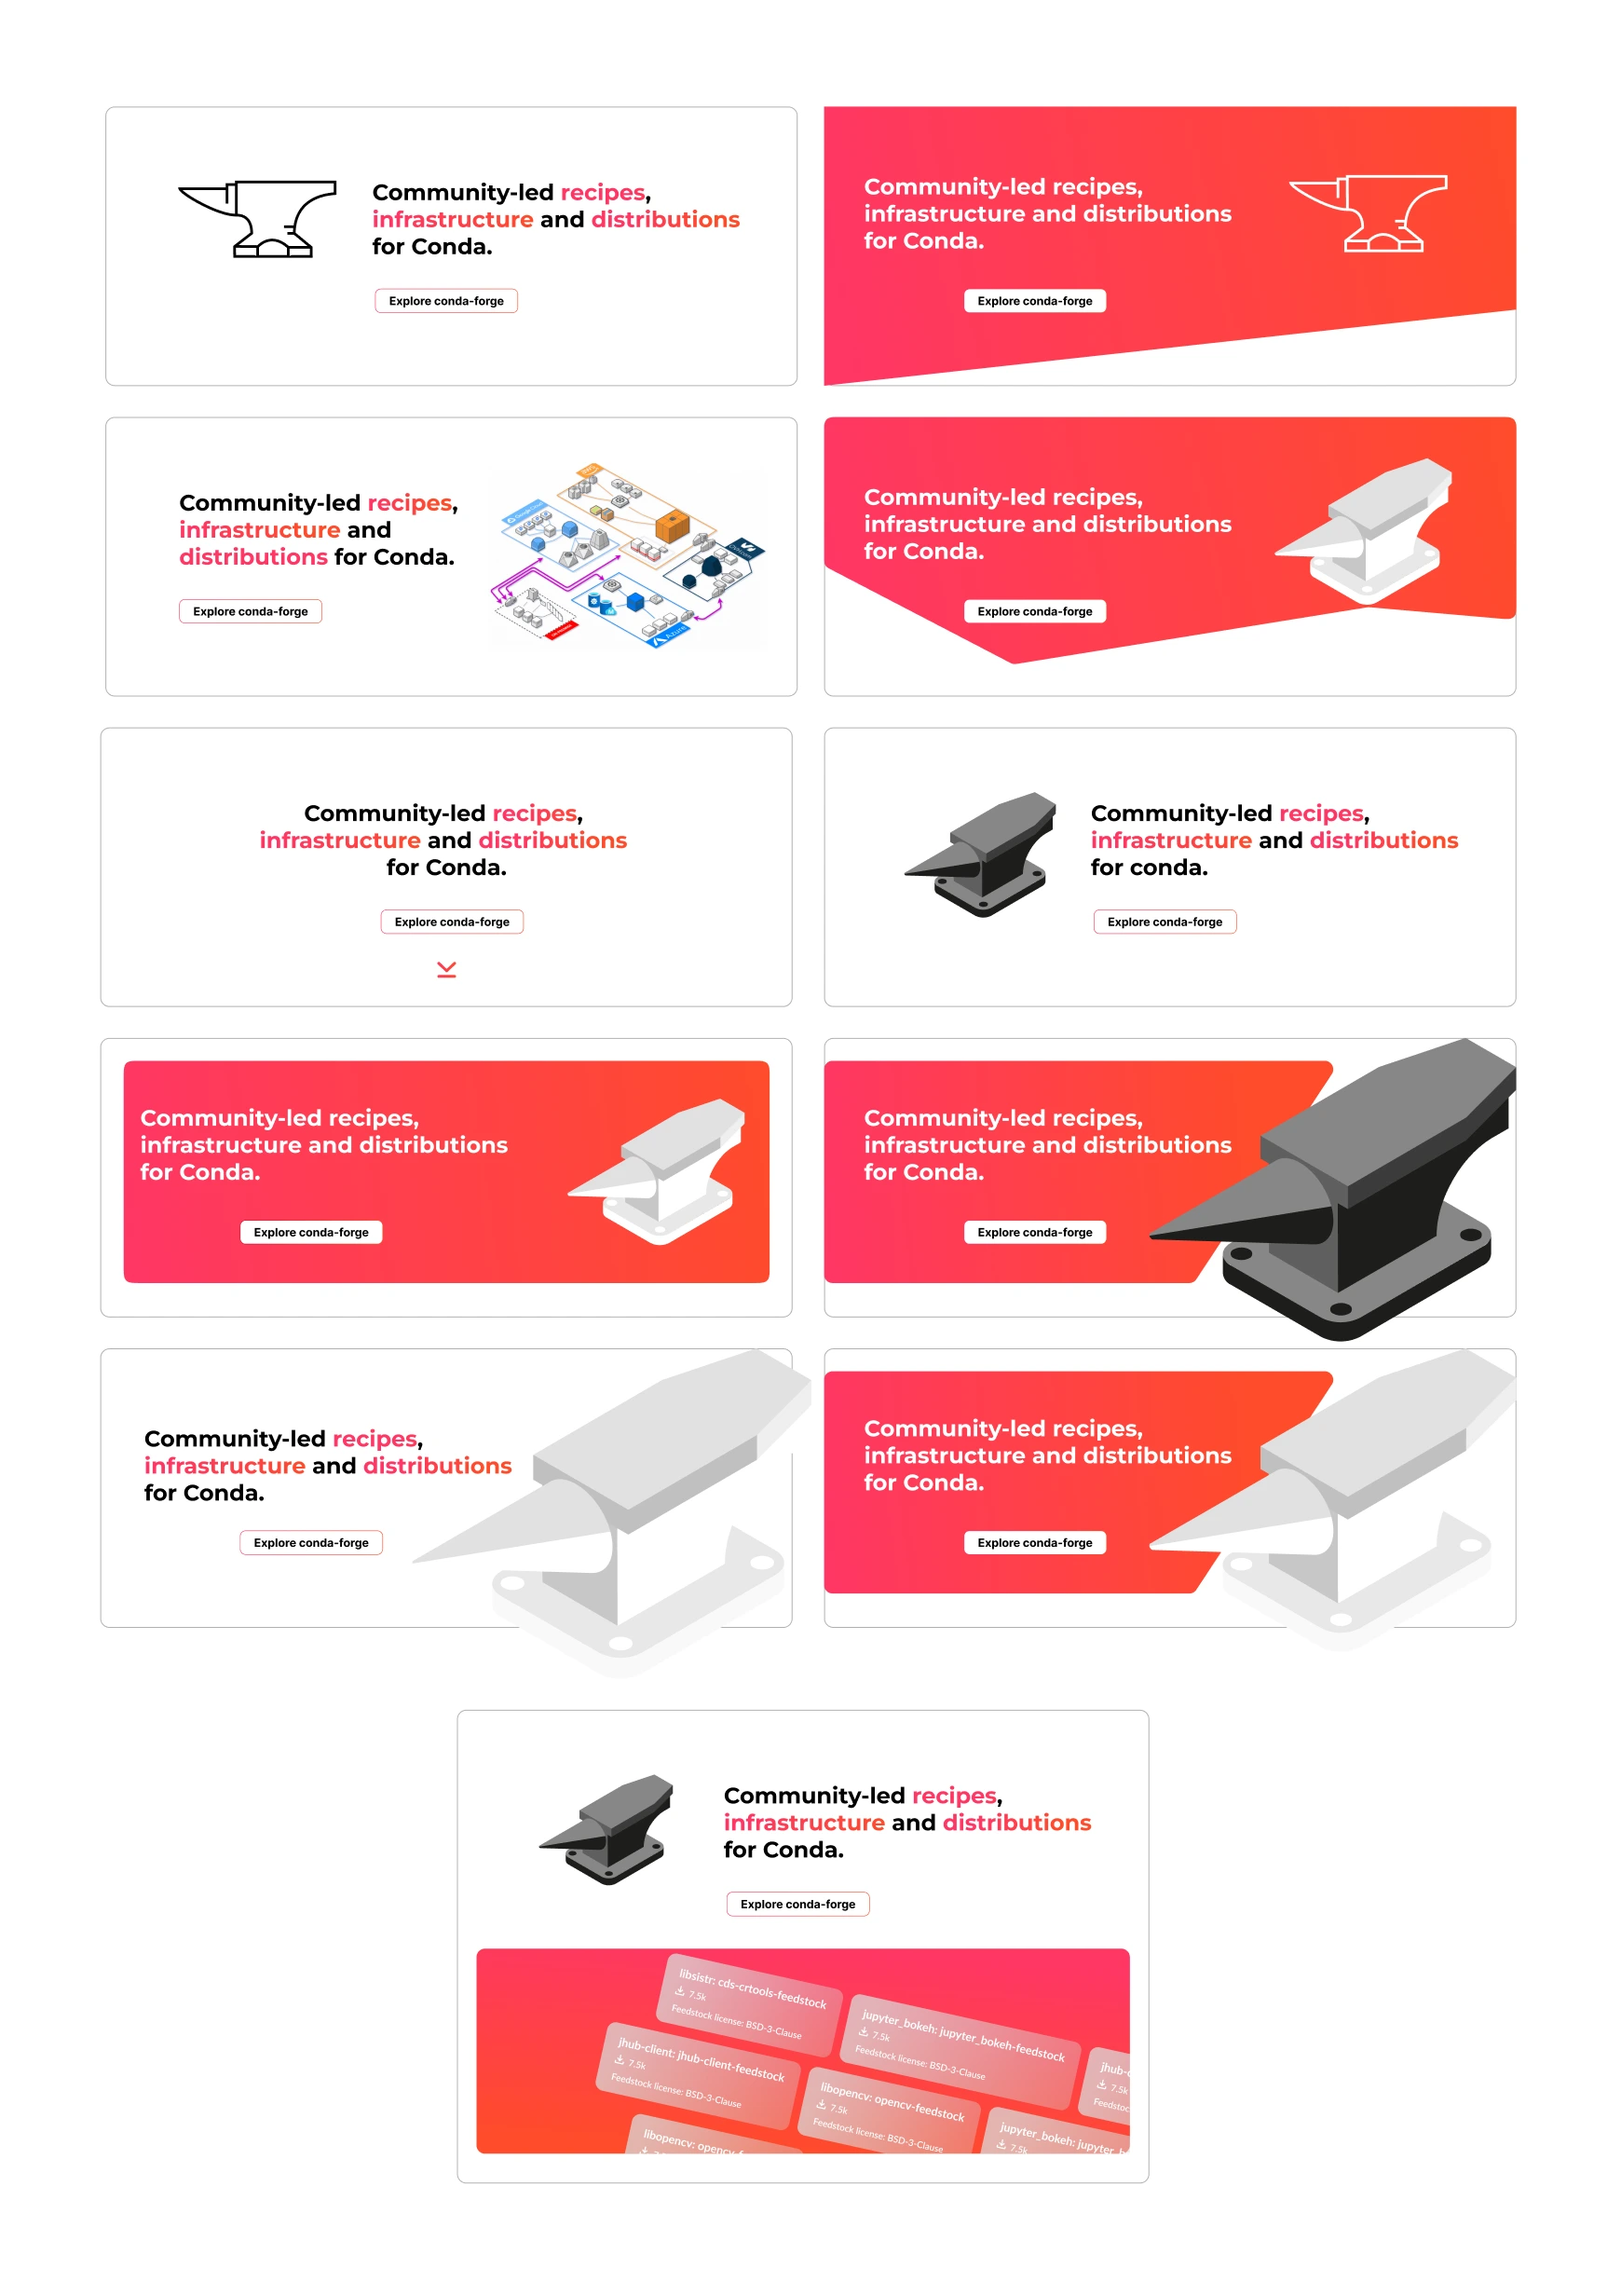
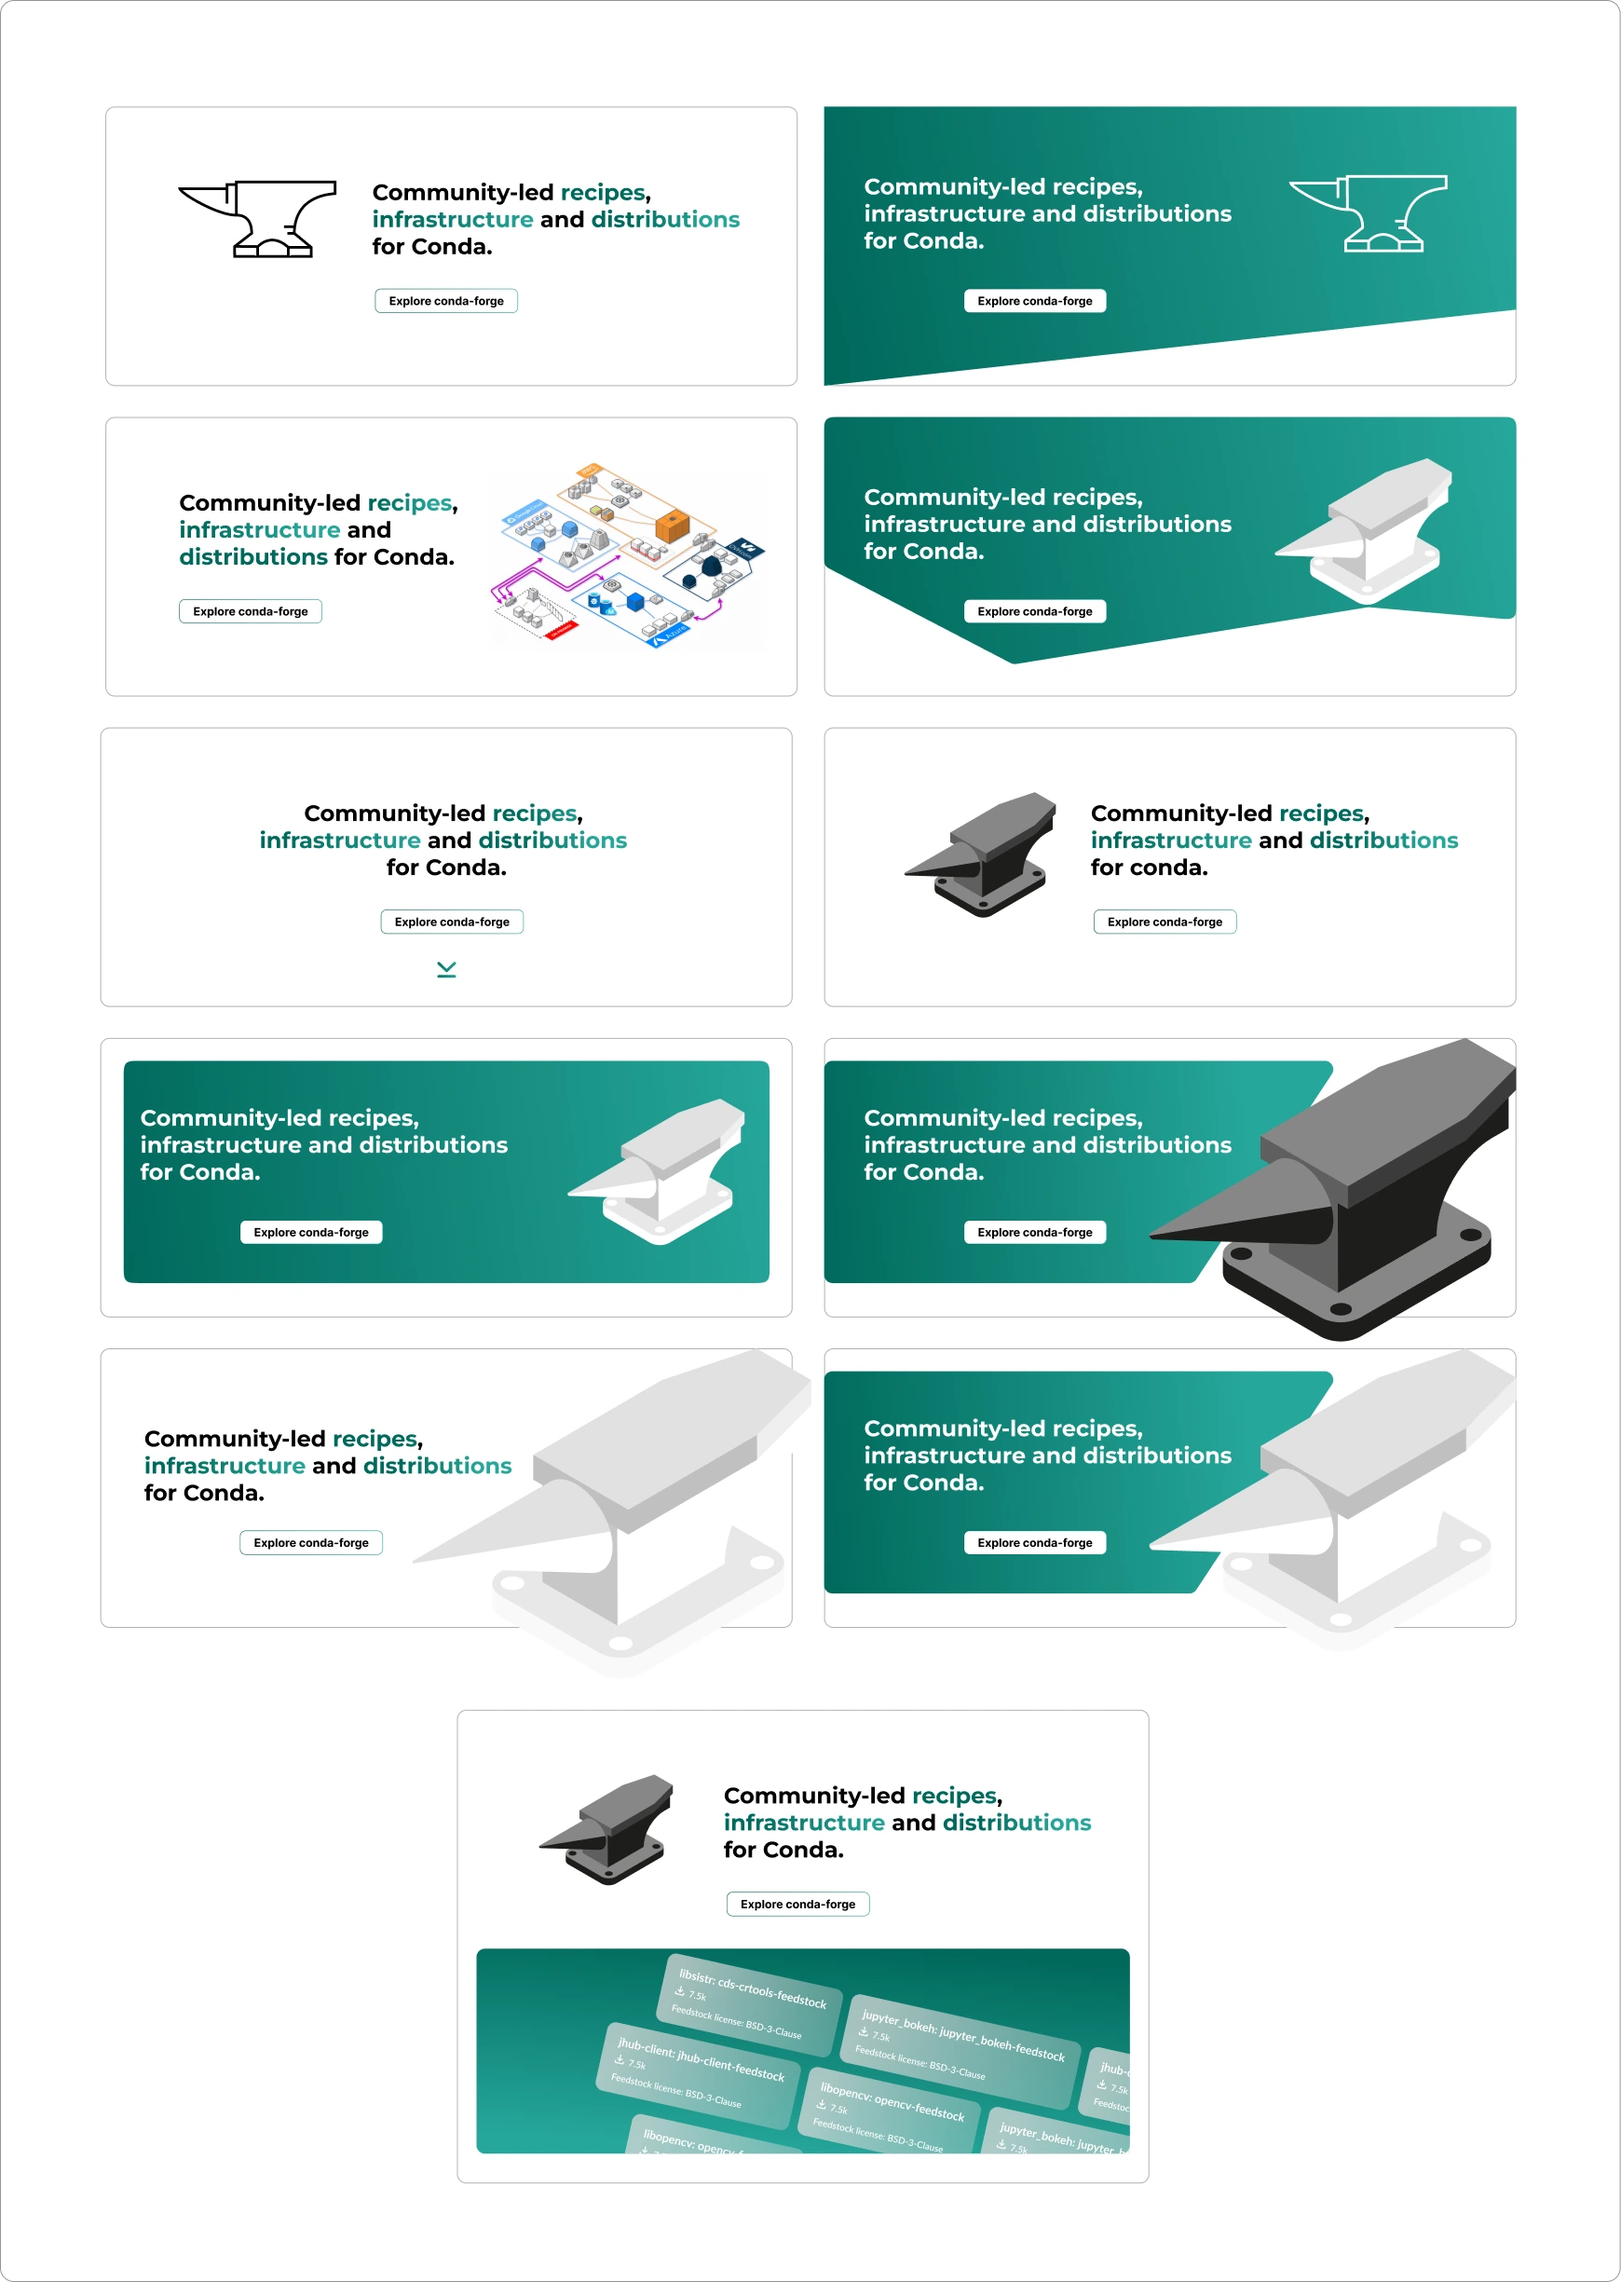
modify condaforge case study

diff --git a/components/Experience/data.js b/components/Experience/data.js
@@ -24,8 +24,8 @@ const details = [
         companyLink: "https://conda-forge.org/",
         time: "05, 2023 - 09, 2023",
         address: "Germany (Remote)",
-        color: "#7C4300",
-        bgcolor: "#FDF9EF",
+        color: "#00695C",
+        bgcolor: "#D2FFFB",
     },
     {
         position: "UX/UI Mentor",
@@ -38,8 +38,8 @@ const details = [
         companyLink: "https://oras.land/",
         time: "05, 2023 - 08, 2023",
         address: "California (Remote)",
-        color: "#196200",
-        bgcolor: "#EEFFF5",
+        color: "#7C4300",
+        bgcolor: "#FDF9EF",
     },
     {
         position: "Visual Design Intern",

diff --git a/components/Work/data.js b/components/Work/data.js
@@ -23,8 +23,8 @@ const projects = [
         description: "Website redesign focusing on accessibility",
         period: "Project made during my GSoC'23 program",
         link: "/projects/conda-forge-website-redesign",
-        color: "#7C4300",
-        bgcolor: "#FFF5DD",
+        color: "#00695C",
+        bgcolor: "#D2FFFB",
     },
 ];
 
